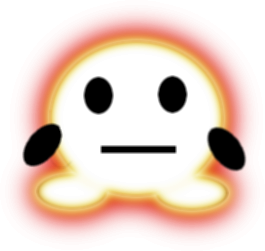
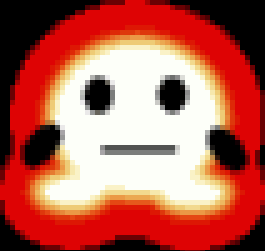
dasda

diff --git a/frontend/js/pets/pets.js b/frontend/js/pets/pets.js
@@ -22,6 +22,6 @@ window.Pets = [
 	{
 		id: 4,
 		name: "Moop",
-		image: "img/pets/moop.png"
+		image: "img/pets/moop.jpg"
 	}
 ];
